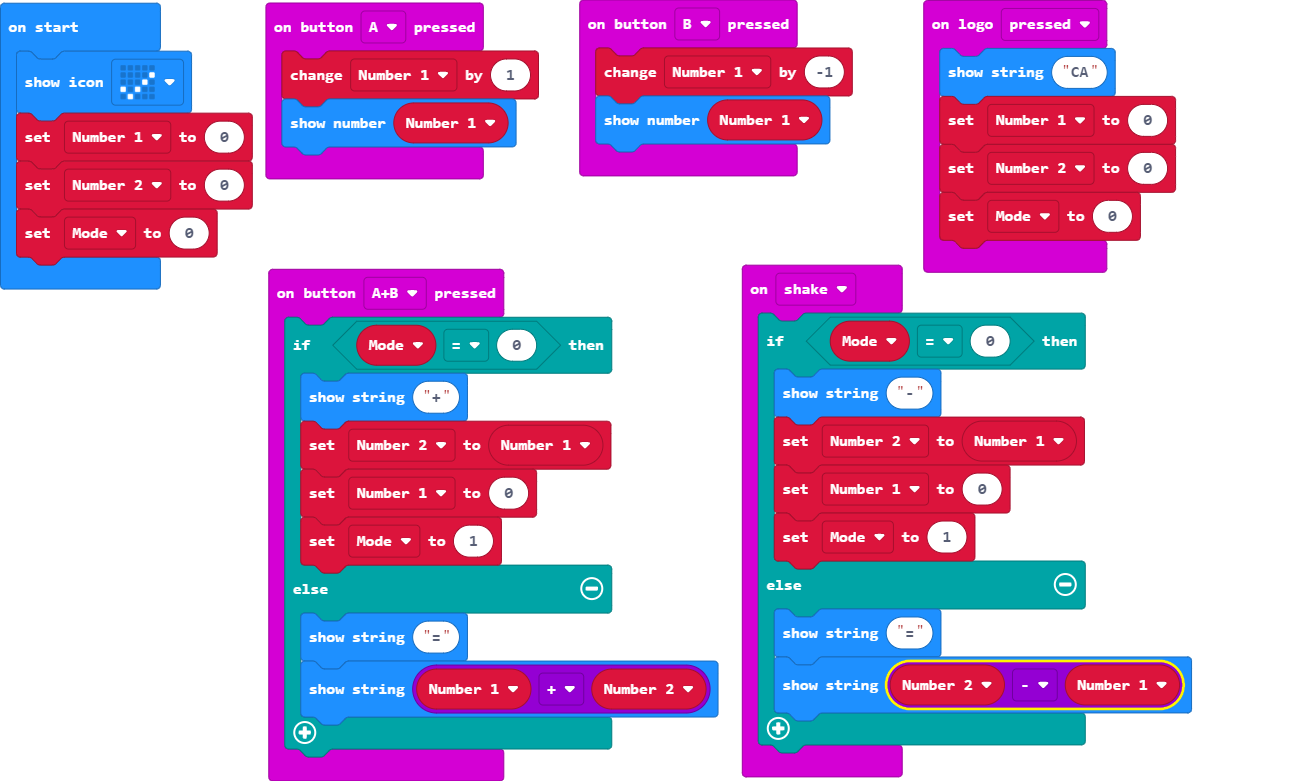
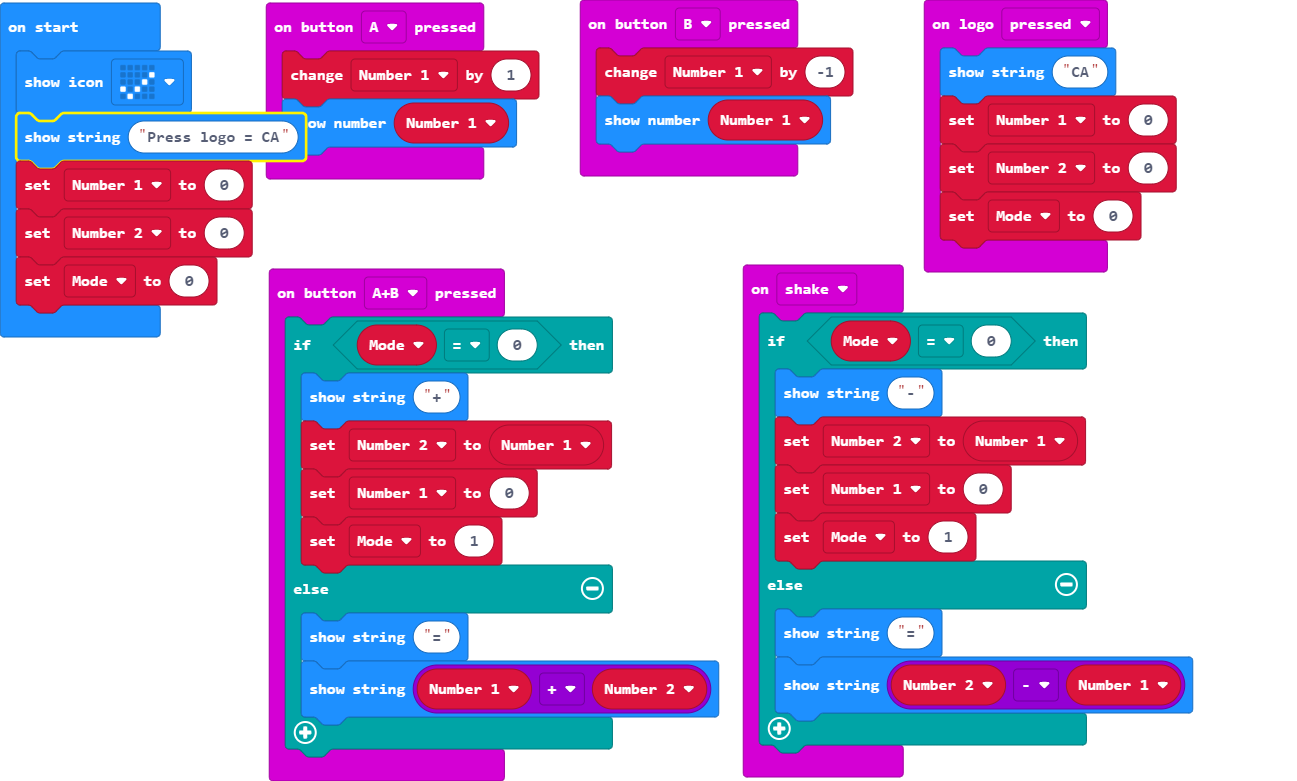
Update main.blocks, main.ts

diff --git a/main.ts b/main.ts
@@ -38,6 +38,7 @@ let Mode = 0
 let Number_2 = 0
 let Number_1 = 0
 basic.showIcon(IconNames.Yes)
+basic.showString("Press logo = CA")
 Number_1 = 0
 Number_2 = 0
 Mode = 0
